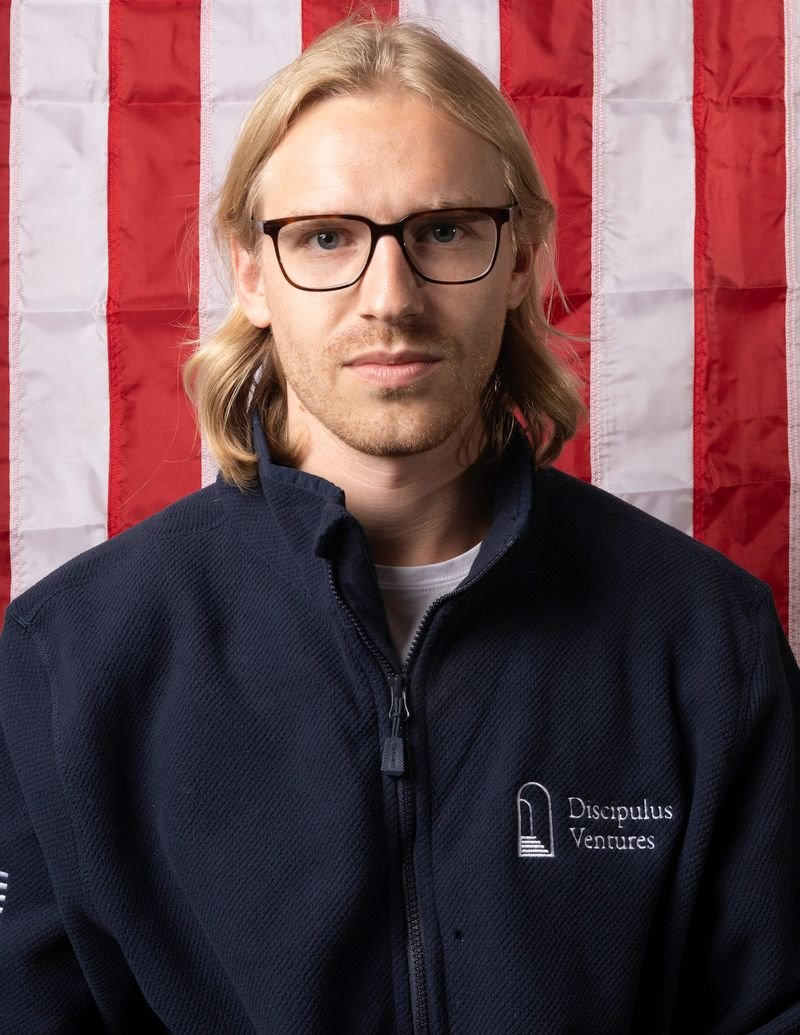
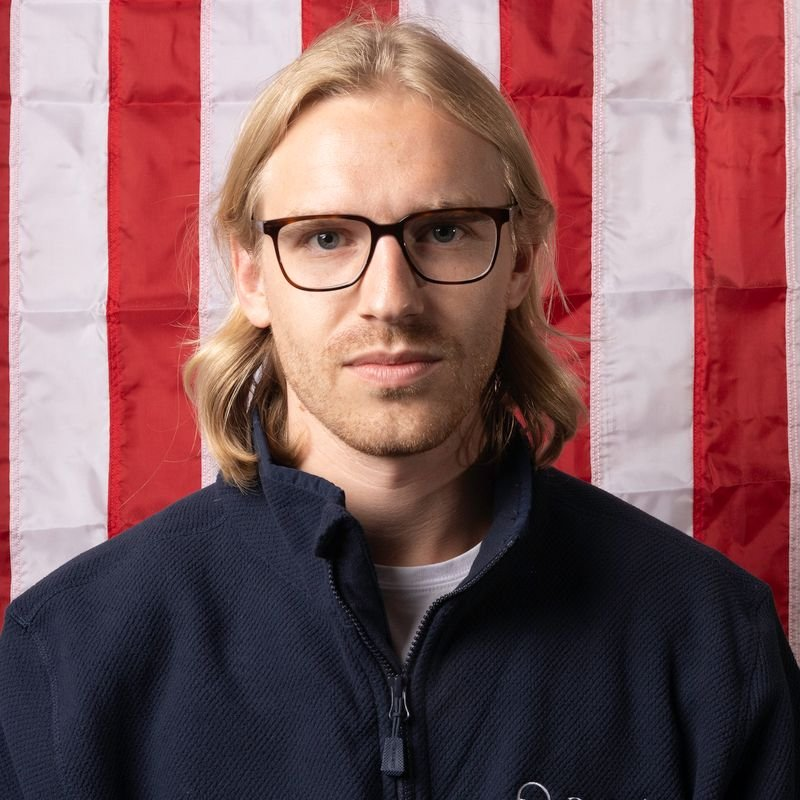
Reframe founder photos for Ruairi, Allen, and Jared
Replace Ruairi McLoughlin's 200px thumbnail with an 800px crop from the
full-resolution original, cropped tight to match the other cards.

Allen Cheng's source is 300x450, so a square crop cut off at his chin.
Fill the square by replicating and softening the edges, with the sharp
original feathered over the result.

Crop Jared West's portrait from the top so object-cover stops clipping
the top of his head.

diff --git a/app/components/v2/FounderOutcomes.tsx b/app/components/v2/FounderOutcomes.tsx
@@ -193,7 +193,7 @@ const founders: FeaturedCompany[] = [
     name: "Ruairi McLoughlin",
     company: "Anaula",
     url: "https://anaula.bio/",
-    headshot: "/founders/ruairi.png",
+    headshot: "/founders/ruairi.jpg",
     logo: "/companies/anaula.png",
     desc: "Autonomous bioreactors for pharmaceutical and biological production.",
   },
